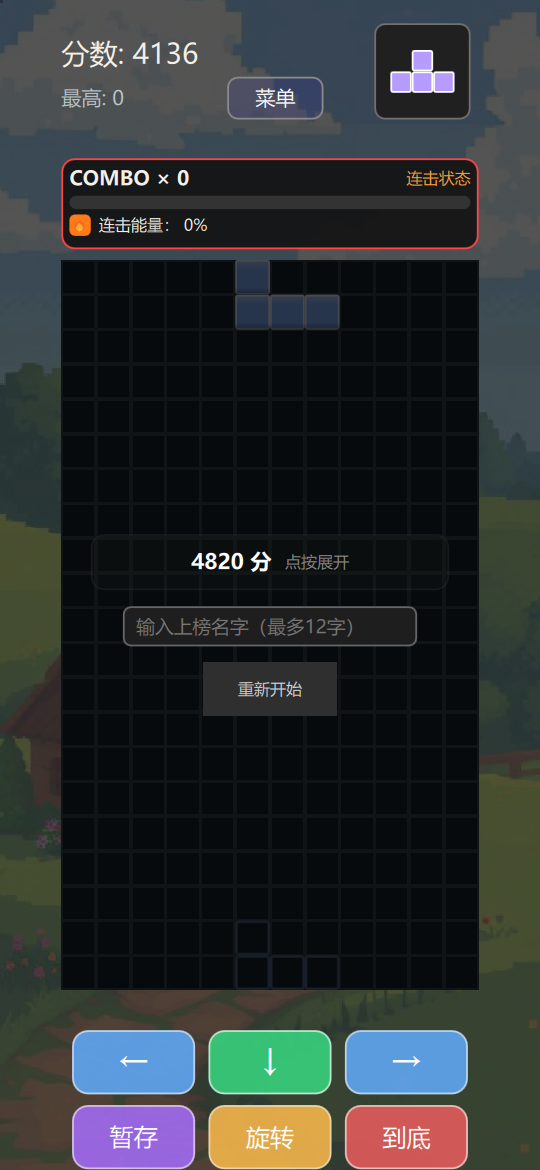
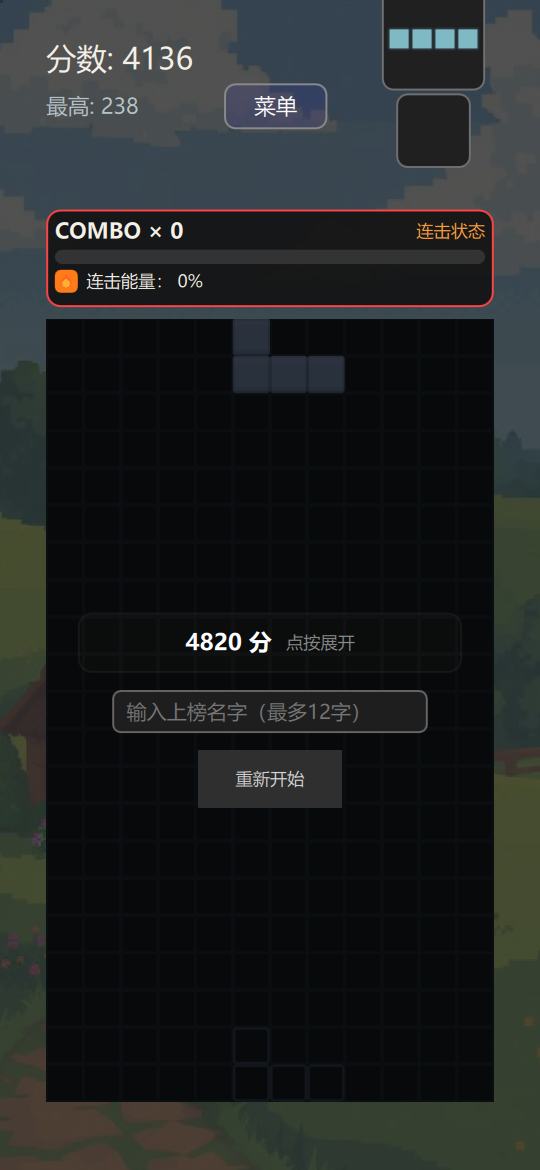
徽章扩充至24枚+成长链（用户要求）：老兵/百行斩/万分俱乐部/连击大师/高产一局 五条三阶成长链（生涯链里程碑语义终身一次，事件链按达成局数×N，跨档多枚同拿）；新增🌈大满贯(单局集齐1/2/3/4消)与🕰马拉松(累计2小时)；旧单枚id自动迁移到I阶(次数保留)；demo recap预设更新——战绩页实测截图 shots/p56/stats-badges.png；补丁v21

diff --git a/Main.qml b/Main.qml
@@ -216,6 +216,7 @@ ApplicationWindow {
     property int b2bCount: 0              // 本局 B2B 次数（结果徽章）
     property var gameBadges: []           // 本局已获过程徽章 id
     property var savedBadges: []          // 永久徽章成就 [{id, n, ts}]：解锁一次终身保留，n=累计次数
+    property var clearFlags: ({})         // 本局出现过的消行类型（大满贯判定用：1/2/3/4 全集齐）
     property int cleanClearStreak: 0      // 连续未入危险区（顶部4行）的消行次数
     property int newUnlocks: 0            // 本局新解锁背景数（结算统计格）
     property bool recapCompact: false     // 结算页折叠态（点头部切换）
@@ -788,6 +789,18 @@ ApplicationWindow {
             bestScore = 0
             savedSettingsVersion = settingsVersion
         }
+        // 徽章 id 迁移（链式改版一次性）：旧单枚 id → 对应 I 阶（次数保留）
+        var legacyBadgeMap = { "veteran": "veteran1", "lines100": "lines100_1",
+                               "best10k": "best10k_1", "combo10": "combo10_1", "lines30": "lines30_1" }
+        var badgeMigrated = false
+        for (var bi = 0; bi < savedBadges.length; bi++) {
+            var oid = savedBadges[bi].id
+            if (legacyBadgeMap[oid] !== undefined) {
+                savedBadges[bi].id = legacyBadgeMap[oid]
+                badgeMigrated = true
+            }
+        }
+        if (badgeMigrated) savedBadges = savedBadges.slice()
         // uid 稳定化：安卓用 ANDROID_ID（卸载重装不变），杜绝同名字分家；
         // 旧的随机 uid 交由服务端在下次提交时并入（adopt），成绩不丢
         var deviceId = typeof nativeDeviceId !== "undefined" ? String(nativeDeviceId) : ""
@@ -965,11 +978,15 @@ ApplicationWindow {
                         { id: "precise", n: 4, ts: 0 },
                         { id: "survivor", n: 2, ts: 0 },
                         { id: "tetris2", n: 2, ts: 0 },
-                        { id: "combo10", n: 1, ts: 0 },
-                        { id: "lines30", n: 2, ts: 0 },
+                        { id: "combo10_1", n: 3, ts: 0 },
+                        { id: "combo10_2", n: 1, ts: 0 },
+                        { id: "lines30_1", n: 2, ts: 0 },
+                        { id: "lines30_2", n: 1, ts: 0 },
                         { id: "score10k", n: 1, ts: 0 },
                         { id: "flash10", n: 5, ts: 0 },
-                        { id: "lines100", n: 1, ts: 0 }
+                        { id: "veteran1", n: 1, ts: 0 },
+                        { id: "lines100_1", n: 1, ts: 0 },
+                        { id: "lines100_2", n: 1, ts: 0 }
                     ]
                     isGameOver = true
                     shoot("recap")
@@ -1183,23 +1200,40 @@ ApplicationWindow {
 
     // ---- 阶段5：过程徽章 + 小徽章 toast（局内里程碑复用同一 toast）----
     readonly property var badgeDefs: ({
-        "clutch":   { icon: "🛡", name: "极限救场", hint: "在危险态（堆叠进入顶部 4 行）完成消行" },
-        "flow":     { icon: "🌊", name: "流畅操作", hint: "连续 6 次消行未进入危险区" },
-        "precise":  { icon: "🎯", name: "精准落位", hint: "锁定的方块恰好全部被消去" },
-        "survivor": { icon: "⛑", name: "逆风翻盘", hint: "从「即将失败」边缘回到安全区" },
-        "tetris2":  { icon: "💎", name: "双响炮", hint: "单局打出 2 次四行消除" },
-        "combo10":  { icon: "🔥", name: "连击大师", hint: "单局连击达到 10" },
-        "lines30":  { icon: "🧱", name: "高产一局", hint: "单局累计消行 ≥ 30" },
-        "score10k": { icon: "💰", name: "万分单局", hint: "单局得分 ≥ 10000" },
-        "flash10":  { icon: "⚡", name: "闪电战", hint: "开局 60 秒内消行 ≥ 10" },
-        "lines100": { icon: "🎖", name: "百行斩", hint: "累计消行达到 100", milestone: true },
-        "veteran":  { icon: "🎗", name: "老兵", hint: "累计完成 50 局", milestone: true },
-        "best10k":  { icon: "👑", name: "万分俱乐部", hint: "历史最高分 ≥ 10000", milestone: true }
+        "clutch":     { icon: "🛡", name: "极限救场", hint: "在危险态（堆叠进入顶部 4 行）完成消行" },
+        "flow":       { icon: "🌊", name: "流畅操作", hint: "连续 6 次消行未进入危险区" },
+        "precise":    { icon: "🎯", name: "精准落位", hint: "锁定的方块恰好全部被消去" },
+        "survivor":   { icon: "⛑", name: "逆风翻盘", hint: "从「即将失败」边缘回到安全区" },
+        "grandSlam":  { icon: "🌈", name: "大满贯", hint: "单局集齐 1/2/3/4 行消除" },
+        "tetris2":    { icon: "💎", name: "双响炮", hint: "单局打出 2 次四行消除" },
+        "score10k":   { icon: "💰", name: "万分单局", hint: "单局得分 ≥ 10000" },
+        "flash10":    { icon: "⚡", name: "闪电战", hint: "开局 60 秒内消行 ≥ 10" },
+        "combo10_1":  { icon: "🔥", name: "连击大师 I", hint: "单局连击达到 10" },
+        "combo10_2":  { icon: "🔥", name: "连击大师 II", hint: "单局连击达到 15" },
+        "combo10_3":  { icon: "🔥", name: "连击大师 III", hint: "单局连击达到 20" },
+        "lines30_1":  { icon: "🧱", name: "高产一局 I", hint: "单局累计消行 ≥ 30" },
+        "lines30_2":  { icon: "🧱", name: "高产一局 II", hint: "单局累计消行 ≥ 50" },
+        "lines30_3":  { icon: "🧱", name: "高产一局 III", hint: "单局累计消行 ≥ 80" },
+        "veteran1":   { icon: "🎗", name: "老兵 I", hint: "累计完成 50 局", milestone: true },
+        "veteran2":   { icon: "🎗", name: "老兵 II", hint: "累计完成 100 局", milestone: true },
+        "veteran3":   { icon: "🎗", name: "老兵 III", hint: "累计完成 200 局", milestone: true },
+        "lines100_1": { icon: "🎖", name: "百行斩 I", hint: "累计消行达到 100", milestone: true },
+        "lines100_2": { icon: "🎖", name: "百行斩 II", hint: "累计消行达到 500", milestone: true },
+        "lines100_3": { icon: "🎖", name: "百行斩 III", hint: "累计消行达到 1000", milestone: true },
+        "best10k_1":  { icon: "👑", name: "万分俱乐部 I", hint: "历史最高分 ≥ 10000", milestone: true },
+        "best10k_2":  { icon: "👑", name: "万分俱乐部 II", hint: "历史最高分 ≥ 20000", milestone: true },
+        "best10k_3":  { icon: "👑", name: "万分俱乐部 III", hint: "历史最高分 ≥ 50000", milestone: true },
+        "marathon":   { icon: "🕰", name: "马拉松", hint: "累计游玩时长 ≥ 2 小时", milestone: true }
     })
-    // 展示顺序：操作技巧 → 单局里程碑 → 生涯成就
+    // 展示顺序：操作技巧 → 单局（含成长链）→ 生涯成长链
     readonly property var badgeOrder: [
-        "clutch", "flow", "precise", "survivor", "tetris2", "combo10",
-        "lines30", "score10k", "flash10", "lines100", "veteran", "best10k"
+        "clutch", "flow", "precise", "survivor", "grandSlam", "tetris2",
+        "combo10_1", "combo10_2", "combo10_3",
+        "lines30_1", "lines30_2", "lines30_3",
+        "score10k", "flash10",
+        "veteran1", "veteran2", "veteran3",
+        "lines100_1", "lines100_2", "lines100_3",
+        "best10k_1", "best10k_2", "best10k_3", "marathon"
     ]
     property bool surviveArmed: false     // 本局曾进入危险三段（逆风翻盘判定用）
     function earnBadge(id) {
@@ -1532,6 +1566,7 @@ ApplicationWindow {
         gameBadges = []
         cleanClearStreak = 0
         surviveArmed = false
+        clearFlags = ({})
         newUnlocks = 0
         recapCompact = false
         dangerLv = 0
@@ -1757,10 +1792,18 @@ ApplicationWindow {
         }
         // 单局里程碑徽章（条件严格可复现；earnBadge 内部按局去重 + 永久计数）
         if (playSeconds <= 60 && totalClearedLines >= 10) earnBadge("flash10")
-        if (totalClearedLines >= 30) earnBadge("lines30")
+        if (totalClearedLines >= 30) earnBadge("lines30_1")
+        if (totalClearedLines >= 50) earnBadge("lines30_2")
+        if (totalClearedLines >= 80) earnBadge("lines30_3")
         if (scoreTarget >= 10000) earnBadge("score10k")
-        if (comboStreak >= 10) earnBadge("combo10")
+        if (comboStreak >= 10) earnBadge("combo10_1")
+        if (comboStreak >= 15) earnBadge("combo10_2")
+        if (comboStreak >= 20) earnBadge("combo10_3")
         if (tetrisCount >= 2) earnBadge("tetris2")
+        // 大满贯：单局集齐 1/2/3/4 行消除
+        clearFlags[linesCleared] = true
+        if (clearFlags[1] === true && clearFlags[2] === true && clearFlags[3] === true && clearFlags[4] === true)
+            earnBadge("grandSlam")
         vibe(linesCleared >= 4 ? 70 : 35)
         scoreTimer.start()
     }
@@ -1974,10 +2017,17 @@ ApplicationWindow {
         totalLinesAll += totalClearedLines
         totalSecondsAll += playSeconds
         maxComboAll = Math.max(maxComboAll, maxCombo)
-        // 生涯成就（累计值达标即解锁，终身保留）
-        if (totalLinesAll >= 100) earnBadge("lines100")
-        if (totalGames >= 50) earnBadge("veteran")
-        if (bestScore >= 10000) earnBadge("best10k")
+        // 生涯成就成长链（累计值达标即解锁对应阶，里程碑语义终身一次；跨档时多枚同拿）
+        if (totalLinesAll >= 100) earnBadge("lines100_1")
+        if (totalLinesAll >= 500) earnBadge("lines100_2")
+        if (totalLinesAll >= 1000) earnBadge("lines100_3")
+        if (totalGames >= 50) earnBadge("veteran1")
+        if (totalGames >= 100) earnBadge("veteran2")
+        if (totalGames >= 200) earnBadge("veteran3")
+        if (bestScore >= 10000) earnBadge("best10k_1")
+        if (bestScore >= 20000) earnBadge("best10k_2")
+        if (bestScore >= 50000) earnBadge("best10k_3")
+        if (totalSecondsAll >= 7200) earnBadge("marathon")
         // 已有名字则本局成绩自动上榜（真实行数/用时），失败仍可手动点按钮重提
         if (playerName !== "" && scoreTarget > 0)
             submitScore()

diff --git a/leaderboard/apk/patch/Main.qml b/leaderboard/apk/patch/Main.qml
@@ -216,6 +216,7 @@ ApplicationWindow {
     property int b2bCount: 0              // 本局 B2B 次数（结果徽章）
     property var gameBadges: []           // 本局已获过程徽章 id
     property var savedBadges: []          // 永久徽章成就 [{id, n, ts}]：解锁一次终身保留，n=累计次数
+    property var clearFlags: ({})         // 本局出现过的消行类型（大满贯判定用：1/2/3/4 全集齐）
     property int cleanClearStreak: 0      // 连续未入危险区（顶部4行）的消行次数
     property int newUnlocks: 0            // 本局新解锁背景数（结算统计格）
     property bool recapCompact: false     // 结算页折叠态（点头部切换）
@@ -788,6 +789,18 @@ ApplicationWindow {
             bestScore = 0
             savedSettingsVersion = settingsVersion
         }
+        // 徽章 id 迁移（链式改版一次性）：旧单枚 id → 对应 I 阶（次数保留）
+        var legacyBadgeMap = { "veteran": "veteran1", "lines100": "lines100_1",
+                               "best10k": "best10k_1", "combo10": "combo10_1", "lines30": "lines30_1" }
+        var badgeMigrated = false
+        for (var bi = 0; bi < savedBadges.length; bi++) {
+            var oid = savedBadges[bi].id
+            if (legacyBadgeMap[oid] !== undefined) {
+                savedBadges[bi].id = legacyBadgeMap[oid]
+                badgeMigrated = true
+            }
+        }
+        if (badgeMigrated) savedBadges = savedBadges.slice()
         // uid 稳定化：安卓用 ANDROID_ID（卸载重装不变），杜绝同名字分家；
         // 旧的随机 uid 交由服务端在下次提交时并入（adopt），成绩不丢
         var deviceId = typeof nativeDeviceId !== "undefined" ? String(nativeDeviceId) : ""
@@ -965,11 +978,15 @@ ApplicationWindow {
                         { id: "precise", n: 4, ts: 0 },
                         { id: "survivor", n: 2, ts: 0 },
                         { id: "tetris2", n: 2, ts: 0 },
-                        { id: "combo10", n: 1, ts: 0 },
-                        { id: "lines30", n: 2, ts: 0 },
+                        { id: "combo10_1", n: 3, ts: 0 },
+                        { id: "combo10_2", n: 1, ts: 0 },
+                        { id: "lines30_1", n: 2, ts: 0 },
+                        { id: "lines30_2", n: 1, ts: 0 },
                         { id: "score10k", n: 1, ts: 0 },
                         { id: "flash10", n: 5, ts: 0 },
-                        { id: "lines100", n: 1, ts: 0 }
+                        { id: "veteran1", n: 1, ts: 0 },
+                        { id: "lines100_1", n: 1, ts: 0 },
+                        { id: "lines100_2", n: 1, ts: 0 }
                     ]
                     isGameOver = true
                     shoot("recap")
@@ -1183,23 +1200,40 @@ ApplicationWindow {
 
     // ---- 阶段5：过程徽章 + 小徽章 toast（局内里程碑复用同一 toast）----
     readonly property var badgeDefs: ({
-        "clutch":   { icon: "🛡", name: "极限救场", hint: "在危险态（堆叠进入顶部 4 行）完成消行" },
-        "flow":     { icon: "🌊", name: "流畅操作", hint: "连续 6 次消行未进入危险区" },
-        "precise":  { icon: "🎯", name: "精准落位", hint: "锁定的方块恰好全部被消去" },
-        "survivor": { icon: "⛑", name: "逆风翻盘", hint: "从「即将失败」边缘回到安全区" },
-        "tetris2":  { icon: "💎", name: "双响炮", hint: "单局打出 2 次四行消除" },
-        "combo10":  { icon: "🔥", name: "连击大师", hint: "单局连击达到 10" },
-        "lines30":  { icon: "🧱", name: "高产一局", hint: "单局累计消行 ≥ 30" },
-        "score10k": { icon: "💰", name: "万分单局", hint: "单局得分 ≥ 10000" },
-        "flash10":  { icon: "⚡", name: "闪电战", hint: "开局 60 秒内消行 ≥ 10" },
-        "lines100": { icon: "🎖", name: "百行斩", hint: "累计消行达到 100", milestone: true },
-        "veteran":  { icon: "🎗", name: "老兵", hint: "累计完成 50 局", milestone: true },
-        "best10k":  { icon: "👑", name: "万分俱乐部", hint: "历史最高分 ≥ 10000", milestone: true }
+        "clutch":     { icon: "🛡", name: "极限救场", hint: "在危险态（堆叠进入顶部 4 行）完成消行" },
+        "flow":       { icon: "🌊", name: "流畅操作", hint: "连续 6 次消行未进入危险区" },
+        "precise":    { icon: "🎯", name: "精准落位", hint: "锁定的方块恰好全部被消去" },
+        "survivor":   { icon: "⛑", name: "逆风翻盘", hint: "从「即将失败」边缘回到安全区" },
+        "grandSlam":  { icon: "🌈", name: "大满贯", hint: "单局集齐 1/2/3/4 行消除" },
+        "tetris2":    { icon: "💎", name: "双响炮", hint: "单局打出 2 次四行消除" },
+        "score10k":   { icon: "💰", name: "万分单局", hint: "单局得分 ≥ 10000" },
+        "flash10":    { icon: "⚡", name: "闪电战", hint: "开局 60 秒内消行 ≥ 10" },
+        "combo10_1":  { icon: "🔥", name: "连击大师 I", hint: "单局连击达到 10" },
+        "combo10_2":  { icon: "🔥", name: "连击大师 II", hint: "单局连击达到 15" },
+        "combo10_3":  { icon: "🔥", name: "连击大师 III", hint: "单局连击达到 20" },
+        "lines30_1":  { icon: "🧱", name: "高产一局 I", hint: "单局累计消行 ≥ 30" },
+        "lines30_2":  { icon: "🧱", name: "高产一局 II", hint: "单局累计消行 ≥ 50" },
+        "lines30_3":  { icon: "🧱", name: "高产一局 III", hint: "单局累计消行 ≥ 80" },
+        "veteran1":   { icon: "🎗", name: "老兵 I", hint: "累计完成 50 局", milestone: true },
+        "veteran2":   { icon: "🎗", name: "老兵 II", hint: "累计完成 100 局", milestone: true },
+        "veteran3":   { icon: "🎗", name: "老兵 III", hint: "累计完成 200 局", milestone: true },
+        "lines100_1": { icon: "🎖", name: "百行斩 I", hint: "累计消行达到 100", milestone: true },
+        "lines100_2": { icon: "🎖", name: "百行斩 II", hint: "累计消行达到 500", milestone: true },
+        "lines100_3": { icon: "🎖", name: "百行斩 III", hint: "累计消行达到 1000", milestone: true },
+        "best10k_1":  { icon: "👑", name: "万分俱乐部 I", hint: "历史最高分 ≥ 10000", milestone: true },
+        "best10k_2":  { icon: "👑", name: "万分俱乐部 II", hint: "历史最高分 ≥ 20000", milestone: true },
+        "best10k_3":  { icon: "👑", name: "万分俱乐部 III", hint: "历史最高分 ≥ 50000", milestone: true },
+        "marathon":   { icon: "🕰", name: "马拉松", hint: "累计游玩时长 ≥ 2 小时", milestone: true }
     })
-    // 展示顺序：操作技巧 → 单局里程碑 → 生涯成就
+    // 展示顺序：操作技巧 → 单局（含成长链）→ 生涯成长链
     readonly property var badgeOrder: [
-        "clutch", "flow", "precise", "survivor", "tetris2", "combo10",
-        "lines30", "score10k", "flash10", "lines100", "veteran", "best10k"
+        "clutch", "flow", "precise", "survivor", "grandSlam", "tetris2",
+        "combo10_1", "combo10_2", "combo10_3",
+        "lines30_1", "lines30_2", "lines30_3",
+        "score10k", "flash10",
+        "veteran1", "veteran2", "veteran3",
+        "lines100_1", "lines100_2", "lines100_3",
+        "best10k_1", "best10k_2", "best10k_3", "marathon"
     ]
     property bool surviveArmed: false     // 本局曾进入危险三段（逆风翻盘判定用）
     function earnBadge(id) {
@@ -1532,6 +1566,7 @@ ApplicationWindow {
         gameBadges = []
         cleanClearStreak = 0
         surviveArmed = false
+        clearFlags = ({})
         newUnlocks = 0
         recapCompact = false
         dangerLv = 0
@@ -1757,10 +1792,18 @@ ApplicationWindow {
         }
         // 单局里程碑徽章（条件严格可复现；earnBadge 内部按局去重 + 永久计数）
         if (playSeconds <= 60 && totalClearedLines >= 10) earnBadge("flash10")
-        if (totalClearedLines >= 30) earnBadge("lines30")
+        if (totalClearedLines >= 30) earnBadge("lines30_1")
+        if (totalClearedLines >= 50) earnBadge("lines30_2")
+        if (totalClearedLines >= 80) earnBadge("lines30_3")
         if (scoreTarget >= 10000) earnBadge("score10k")
-        if (comboStreak >= 10) earnBadge("combo10")
+        if (comboStreak >= 10) earnBadge("combo10_1")
+        if (comboStreak >= 15) earnBadge("combo10_2")
+        if (comboStreak >= 20) earnBadge("combo10_3")
         if (tetrisCount >= 2) earnBadge("tetris2")
+        // 大满贯：单局集齐 1/2/3/4 行消除
+        clearFlags[linesCleared] = true
+        if (clearFlags[1] === true && clearFlags[2] === true && clearFlags[3] === true && clearFlags[4] === true)
+            earnBadge("grandSlam")
         vibe(linesCleared >= 4 ? 70 : 35)
         scoreTimer.start()
     }
@@ -1974,10 +2017,17 @@ ApplicationWindow {
         totalLinesAll += totalClearedLines
         totalSecondsAll += playSeconds
         maxComboAll = Math.max(maxComboAll, maxCombo)
-        // 生涯成就（累计值达标即解锁，终身保留）
-        if (totalLinesAll >= 100) earnBadge("lines100")
-        if (totalGames >= 50) earnBadge("veteran")
-        if (bestScore >= 10000) earnBadge("best10k")
+        // 生涯成就成长链（累计值达标即解锁对应阶，里程碑语义终身一次；跨档时多枚同拿）
+        if (totalLinesAll >= 100) earnBadge("lines100_1")
+        if (totalLinesAll >= 500) earnBadge("lines100_2")
+        if (totalLinesAll >= 1000) earnBadge("lines100_3")
+        if (totalGames >= 50) earnBadge("veteran1")
+        if (totalGames >= 100) earnBadge("veteran2")
+        if (totalGames >= 200) earnBadge("veteran3")
+        if (bestScore >= 10000) earnBadge("best10k_1")
+        if (bestScore >= 20000) earnBadge("best10k_2")
+        if (bestScore >= 50000) earnBadge("best10k_3")
+        if (totalSecondsAll >= 7200) earnBadge("marathon")
         // 已有名字则本局成绩自动上榜（真实行数/用时），失败仍可手动点按钮重提
         if (playerName !== "" && scoreTarget > 0)
             submitScore()
